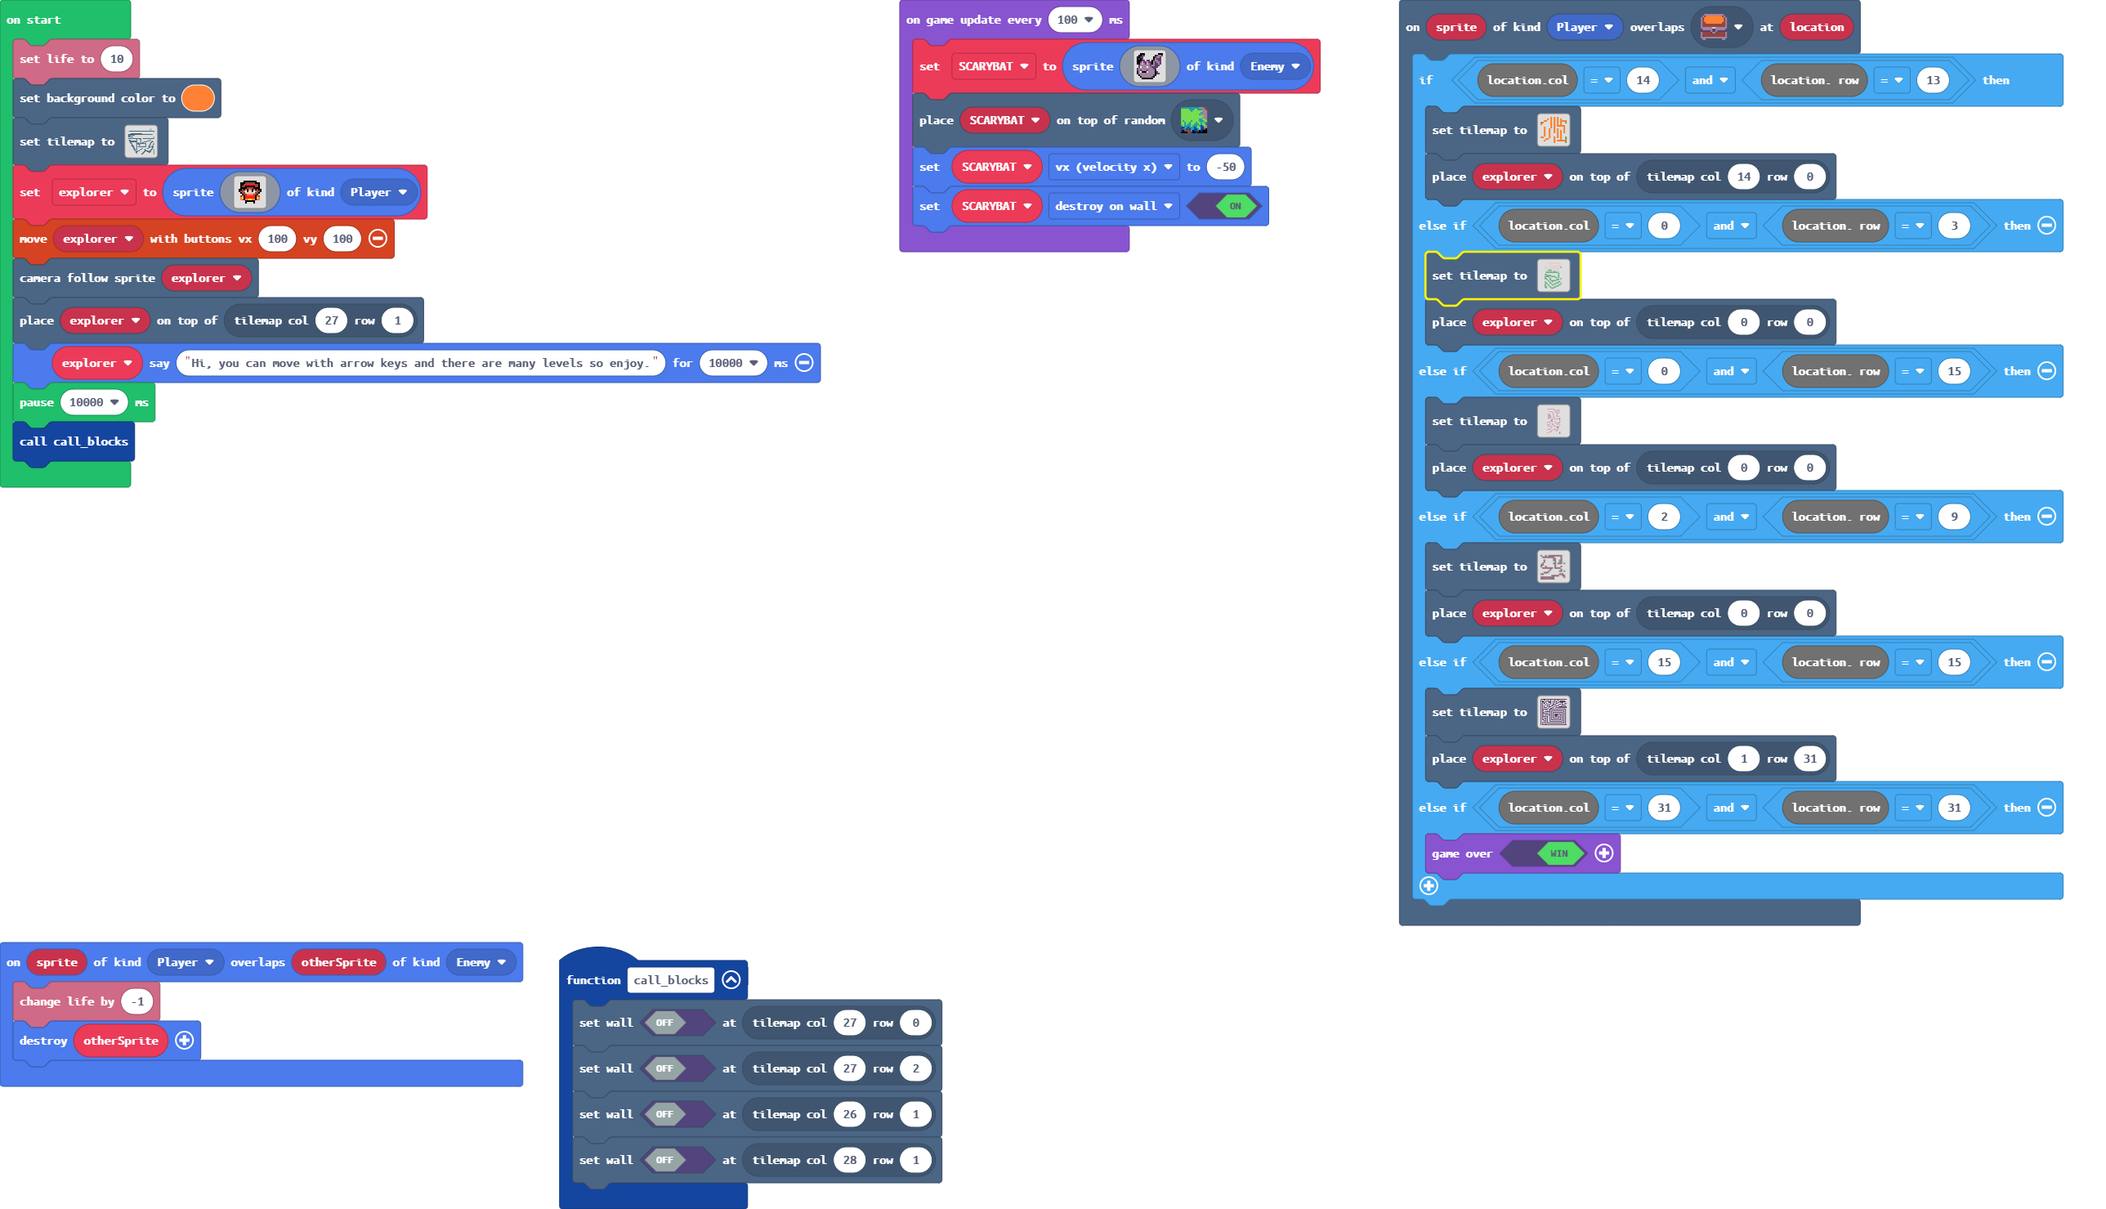
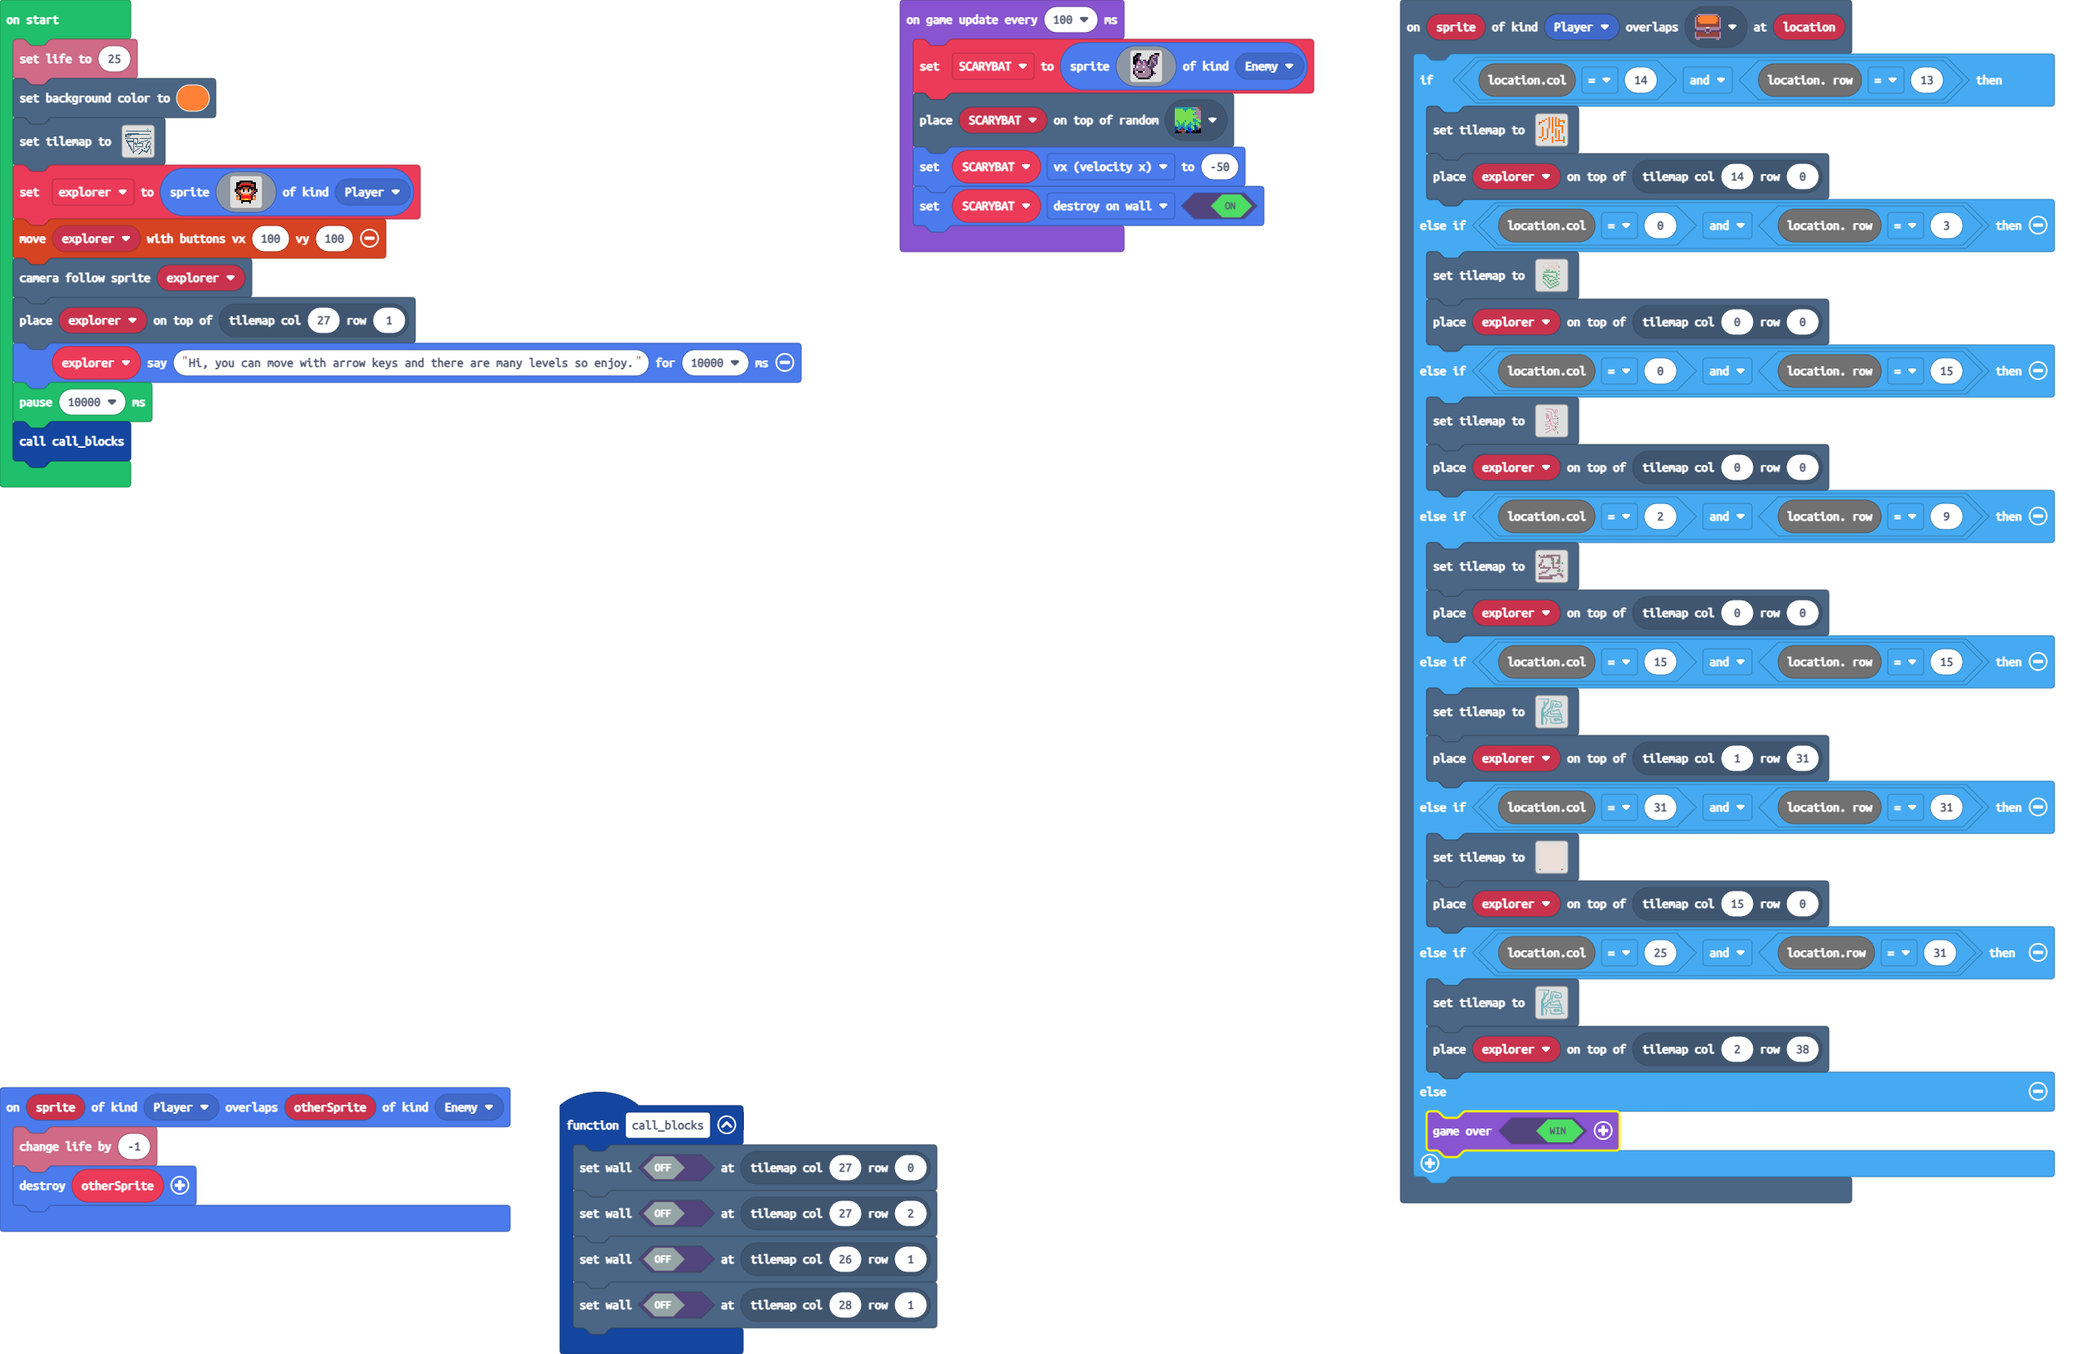
Update pxt.json, main.blocks, main.ts, tilemap.g.jres, tilemap.g.ts

diff --git a/tilemap.g.ts b/tilemap.g.ts
@@ -24,25 +24,6 @@ namespace myTiles {
 . . . . . . . . . . . . . . . . 
 . . . . . . . . . . . . . . . . 
 `, [myTiles.transparency16], TileScale.Sixteen);
-            case "level8":
-            case "level8":return tiles.createTilemap(hex`1000100000000000000000000000000000000000000000000000000000000000000000000000000000000000000000000000000000000000000000000000000000000000000000000000000000000000000000000000000000000000000000000000000000000000000000000000000000000000000000000000000000000000000000000000000000000000000000000000000000000000000000000000000000000000000000000000000000000000000000000000000000000000000000000000000000000000000000000000000000000000000000000000000000000000000000000000000000000000000000000000000000000000000000000000000000000000`, img`
-. . . . . . . . . . . . . . . . 
-. . . . . . . . . . . . . . . . 
-. . . . . . . . . . . . . . . . 
-. . . . . . . . . . . . . . . . 
-. . . . . . . . . . . . . . . . 
-. . . . . . . . . . . . . . . . 
-. . . . . . . . . . . . . . . . 
-. . . . . . . . . . . . . . . . 
-. . . . . . . . . . . . . . . . 
-. . . . . . . . . . . . . . . . 
-. . . . . . . . . . . . . . . . 
-. . . . . . . . . . . . . . . . 
-. . . . . . . . . . . . . . . . 
-. . . . . . . . . . . . . . . . 
-. . . . . . . . . . . . . . . . 
-. . . . . . . . . . . . . . . . 
-`, [myTiles.transparency16], TileScale.Sixteen);
             case "level5":
             case "level5":return tiles.createTilemap(hex`1000190000000101010101010101010101010100000000000000000000000000000001000000000000010000000000000000010001000000000101010101010101010100010000000000000000000000000100040101010101010101010101010001000000000000000000000000000100010000000000020202020000000001000100000000000000000000000200000001000400020202020202020202020202010000000000000000000000000000000200000202000000000000000000000002000400000202020200000000000000020000020202020000020202020000000200000200000002000000000002020002000003020000000200000000000000000102000002000002000000000002020200000000000200000202020202000000000002000000020000020000000000020200000200000002000000000002020000000000020000000200000202000000000200000002000000020200000000020200000000000200000000000002020000000000000000020000000202000000000000000000000002020200000000000000`, img`
 ..22222222222222
@@ -71,41 +52,6 @@ namespace myTiles {
 .....2...22.....
 ......222.......
 `, [myTiles.transparency16,sprites.castle.tilePath5,sprites.builtin.forestTiles23,sprites.dungeon.chestClosed,sprites.builtin.forestTiles20], TileScale.Sixteen);
-            case "level7":
-            case "level7":return tiles.createTilemap(hex`2000200003010101040101010101010101010101010101010101010101010101010101010100000001000000000000000100000000010000000100000000000000000000010004000001000101010100010000010001000100010001010101010101000001000404000001000000010101000001000100010000000101010101010101000100010004000100000101010100000100010001000101000101010100000000010001000400000100000000010000010000000101000000000001000001010101000100000100000100010001000001010101000000000101000100000000000100010000000100010001000000010100000000000101000000010101010100010001000100000001000100000101000001010101000000000100000000000001000100010000000100010101000000010000000000010101010101010101010100010001010101000001000000010100000101010101010101010101010101010001000000000000010000010100000000000000000000000000000000000001000101010101010100000101010101010101010101010101010101010101000100010000000100000001010000000000000000000000000000000000000100010001010000000001000001000101010101010101010101010101010100010001000100000101010101010100010000000000000000000000000000010001000100010100000000000000010001000101010101010101010101010001000100010001010101010101010001000100010000000000000000000001000100010001000100000000000000000100010001000101010101010101000100010001000100010100010101010101010001000100010101010000000100010001000100010001000000000000000001000100010001010101000100010001000100010001000101010101010100000100010001000101010100010001000100010001000100010000000000010000010001000100000000000001000100010001000100010001000101010001000001000100010101010101010100010001000100010001000100000001000100000100010000000000000000000001000100010001000100010101000100010000010001010101010101010101010100010001000100010000000100010001000001000000000000000000000000000001000100010001000000010001000100000101010101010101010101010101010100010001000100010001000100010000000000000000000000000000000000000001000100010001000100010001010101010101010101010101010101010101010100010001000100000001000000000000000000000000000000000000000000000001000100010101010101010101010101010101010101010101010101010101010102`, img`
-22222222222222222222222222222222
-2...2.......2....2...2..........
-2.2..2.2222.2..2.2.2.2.2222222..
-2.22..2...222..2.2.2...22222222.
-2.2.2.2..2222..2.2.2.22.2222....
-2.2.2..2....2..2...22.....2..222
-2.2..2..2.2.2..2222....22.2.....
-2.2...2.2.2...22.....22...22222.
-2.2.2...2.2..22..2222....2......
-2.2.2...2.222...2.....2222222222
-2.2.2222..2...22..22222222222222
-2.2......2..22..................
-2.2222222..22222222222222222222.
-2.2...2...22..................2.
-2.22....2..2.2222222222222222.2.
-2.2..2222222.2..............2.2.
-2.22.......2.2.222222222222.2.2.
-2.22222222.2.2.2..........2.2.2.
-2.2........2.2.2.22222222.2.2.2.
-2.22.2222222.2.2.2222...2.2.2.2.
-2.2........2.2.2.2222.2.2.2.2.2.
-2.2222222..2.2.2.2222.2.2.2.2.2.
-2.2.....2..2.2.2......2.2.2.2.2.
-2.2.222.2..2.2.22222222.2.2.2.2.
-2.2...2.2..2.2..........2.2.2.2.
-2.222.2.2..2.222222222222.2.2.2.
-2...2.2.2..2..............2.2.2.
-2...2.2.2..2222222222222222.2.2.
-2.2.2.2.2...................2.2.
-2.2.2.2.222222222222222222222.2.
-2.2...2.......................2.
-2.22222222222222222222222222222.
-`, [myTiles.transparency16,sprites.builtin.oceanSand14,sprites.dungeon.chestClosed,sprites.builtin.forestTiles20,sprites.builtin.oceanDepths9], TileScale.Sixteen);
             case "level1":
             case "level1":return tiles.createTilemap(hex`2000200000000000000000000000000000000000000000000000000000000005000000000000000000000000000000000000000000000000000000000000050005000000000000000000000000000000000000000000000000000000000000050000000000030303030303030303030303030303030303030303030303030303030303030000000000000000000000000000000000000000000000000000000000000007000000000000000000000000000000000000000000000000000000000000000000000002020202020202020202020202020000000000000000000000000000000202020202020202020202020202020202020202020202020202020202020000020202020202020200000000000000000000000000000000000000000000000002020000000000000000000000000000000000000000000000000000000000000202020202020000000000000000000000000000000000000000000000000007000000000000000000000000000000000000000000000000000000000000000702020202020202020202020202020202000002020202020202020202020202010000000000000000000003000000040300000000000000000000000000000000000303000000000000000300000000030000000000000000000003030000000000030303030303030303030000000003000000000000000303030000000300000000030303030303030303000000000300000003030303000000000003030300000003030000000000000300030000030003030000000000000000030300000600000003030000000000030203030203030303030303000000000003000000070000000003000000000003000303000000000000000300000000030300000303000000000303000000000300000303000000000000030000000003000000000000000000030303000000030000000000000000000003000000030300000303000000000000030300000003000303030303030303030300000003030003030300000000000000030300000300000000000000000000000000000303000003030000000000000003030000030000000000000300000000000303000000000300000000000000000003030003000000000303000000030000000000000003030007000000000000000303000300000003000000000003030000000000030300000700000000000000000300030003030000000000000303030303000303000000070000000000000000000303030000000000000003030000030303030300000007000000000000000000030300000000000000030300000000000303000000000700000000000000000000030000000000000303000000000000000000000000070000000000000000000000000000000003030000000000000000000000000007`, img`
 ...........................2....
@@ -215,6 +161,108 @@ namespace myTiles {
 2 2 . 2 2 2 2 2 2 . . . . . . . 
 2 2 . . . . . . . . . . . . . . 
 `, [myTiles.transparency16,sprites.builtin.forestTiles26,sprites.dungeon.chestClosed,sprites.builtin.forestTiles29,sprites.builtin.forestTiles20], TileScale.Sixteen);
+            case "level9":
+            case "level9":return tiles.createTilemap(hex`1000100000000000000000000000000000000000000000000000000000000000000000000000000000000000000000000000000000000000000000000000000000000000000000000000000000000000000000000000000000000000000000000000000000000000000000000000000000000000000000000000000000000000000000000000000000000000000000000000000000000000000000000000000000000000000000000000000000000000000000000000000000000000000000000000000000000000000000000000000000000000000000000000000000000000000000000000000000000000000000000000000000000000000000000000000000000000`, img`
+. . . . . . . . . . . . . . . . 
+. . . . . . . . . . . . . . . . 
+. . . . . . . . . . . . . . . . 
+. . . . . . . . . . . . . . . . 
+. . . . . . . . . . . . . . . . 
+. . . . . . . . . . . . . . . . 
+. . . . . . . . . . . . . . . . 
+. . . . . . . . . . . . . . . . 
+. . . . . . . . . . . . . . . . 
+. . . . . . . . . . . . . . . . 
+. . . . . . . . . . . . . . . . 
+. . . . . . . . . . . . . . . . 
+. . . . . . . . . . . . . . . . 
+. . . . . . . . . . . . . . . . 
+. . . . . . . . . . . . . . . . 
+. . . . . . . . . . . . . . . . 
+`, [myTiles.transparency16], TileScale.Sixteen);
+            case "level8":
+            case "level8":return tiles.createTilemap(hex`10001200010101010101010101010101010101000101010101010101010101010101010101010101010101010101010101010101010101010101010101010101010101010101010101010101010101010101010101010101010101010101010101010101010101010101010101010101010101010101010101010101010101010101010101010101010101010101010101010101010101010101010101010101010101010101010101010101010101010101010101010101010101010101010101010101010101010101010101010101010101010101010101010101010101010101010101010101010101010101010101010101010101010101010101010101010101010101010101010101010101010101010103010101010101010101010101010102`, img`
+. . . . . . . . . . . . . . . . 
+. 2 . . 2 2 . 2 2 2 2 2 2 2 . 2 
+. 2 . . . . . . . . . . . 2 . 2 
+. . . . . . . . . . . . . 2 . . 
+. 2 . . 2 2 . 2 . . . . . . . . 
+. . . . . 2 . 2 . . 2 2 2 2 2 . 
+. . . . . 2 . 2 . . 2 . . . . . 
+. 2 . 2 . . . 2 . . . . . 2 2 . 
+. 2 . 2 2 2 2 2 . . . . . 2 2 . 
+. 2 . . . . . . . . 2 . . 2 2 . 
+. 2 . 2 2 2 2 2 2 2 2 . . 2 2 . 
+. 2 . . . . . . . . 2 . . 2 2 . 
+. 2 . . . . . . . . 2 . . 2 2 . 
+. 2 2 2 2 2 2 . . . 2 . . . 2 . 
+. . 2 . . . . . 2 2 2 2 2 . 2 . 
+. . 2 . . . . . . . . . . . 2 . 
+. . 2 . . . . . . . . . . . 2 . 
+2 . 2 2 2 2 2 2 2 2 2 2 2 2 2 . 
+`, [myTiles.transparency16,sprites.builtin.brick,sprites.dungeon.chestClosed,sprites.builtin.forestTiles20], TileScale.Sixteen);
+            case "level10":
+            case "level10":return tiles.createTilemap(hex`1000100000000000000000000000000000000000000000000000000000000000000000000000000000000000000000000000000000000000000000000000000000000000000000000000000000000000000000000000000000000000000000000000000000000000000000000000000000000000000000000000000000000000000000000000000000000000000000000000000000000000000000000000000000000000000000000000000000000000000000000000000000000000000000000000000000000000000000000000000000000000000000000000000000000000000000000000000000000000000000000000000000000000000000000000000000000000`, img`
+. . . . . . . . . . . . . . . . 
+. . . . . . . . . . . . . . . . 
+. . . . . . . . . . . . . . . . 
+. . . . . . . . . . . . . . . . 
+. . . . . . . . . . . . . . . . 
+. . . . . . . . . . . . . . . . 
+. . . . . . . . . . . . . . . . 
+. . . . . . . . . . . . . . . . 
+. . . . . . . . . . . . . . . . 
+. . . . . . . . . . . . . . . . 
+. . . . . . . . . . . . . . . . 
+. . . . . . . . . . . . . . . . 
+. . . . . . . . . . . . . . . . 
+. . . . . . . . . . . . . . . . 
+. . . . . . . . . . . . . . . . 
+. . . . . . . . . . . . . . . . 
+`, [myTiles.transparency16], TileScale.Sixteen);
+            case "level7":
+            case "level7":return tiles.createTilemap(hex`2800280002020202020202020202020202020202000000000000000000000000000000000000000000000000000000000000000000000000000002020000000000000000000000000000000000000000000000000000000000000000000000000000020200000000000000000000000000000000000000000000000000000000000000000200000000000200000000020202020202020200000000000000000000000000000000000000000002000000000002000000000200000000000002020202020200000000000000000000000000000000020000000000020000000002000000000000000000000000020200000000000000000000000000000202000000020200000000020000000000000000000000000002000000000000000000000000000002000002020200000000020000000200000000000000000000000200000000000000000000000000020000020000000000000200000202000002020202000000000002000000000000000000000000000202000200000000000002000002000000020000000202000000020000000000000000000000000002000002000000000000020000020000020000000000000000000202000000000000000000000000020002000000000000000200000200000202000000000000000002000000000000000000000000020202000000000000000002000202000000020202020202020202020000000000000000000000000202020000000000000002020002000000000000000000000000000000000000000000000000020202020200000000000000020000020000000000000000000000000000000000000000000000000202020000000000000000020200000200000000000000000000000000000000000000000000000002020200000000000002020200000002000000000000000002020000000000000000000000000002020200000000000002020000000000020000000000020202000202000000000000000000000000020202000000000000020000000002000002000202020000000000020000000000000000000000000202020000000000020200000202020000000202000000000000000200000000000000000000000002020200000002020000000202000200000000000000000000000000020000000000000000000000020202020202020000000202000002000000000000000000000000000200000000000000000000000202020200000000000202000000020000000000000000000000000002020000000000000000000002020202000000000202000000000202020202020202020202020200000200000000000000000000020202020000000202000000000000000000000000000000000002020202020000000000000000000202020202020202000000000000000000000000000000000000000000000200000000000000000002020200020000020202000000000000000000000000000000000000000002000000000000000000020202000200000000000202020202020202020202020202020202020202020000000000000000000202020000020200000000000000000000000000000000000000000000000202000000000000000002020200000002000000000000000000000000000000000000000000000000020000000000000000020202000000000200000000000200000000000002020202020202020000000200000000000000000202020000000002020000000002000000000002020100000000000200000002000000000000000002020200000000000200000000000200000000020200000202020202020200020000000000000000020202000000000002000000000002000000000002020202000000000000020200000000000000000202020000000000020000000000020000000000000000000000000000000002000000000000000002020200000000020000000000000200000000000000000000000000000000020000000000000000020202000000000200000000000002020200000000000000000000000000020202020202000000000202020000000002000000000000000002020202020202020202020202020000000000000000000002020200000000020000000000000000000000000000000000000000000000000000000000000000020202000000000000000000000000000000000000000000000000000000000000000000`, img`
+2222222222222...........................
+...............2........................
+..............22........................
+........2.....2....22222222.............
+........2.....2....2......222222........
+........2.....2....2............22......
+........22...22....2.............2......
+........2..222....2...2...........2.....
+........2..2......2..22..2222.....2.....
+........22.2......2..2...2...22...2.....
+........2..2......2..2..2.........22....
+........2.2.......2..2..22........2.....
+.......222........2.22...2222222222.....
+.......222.......22.2...................
+.....22222.......2..2...................
+.....222........22..2...................
+.....222......222...2........22.........
+....222......22.....2.....222.22........
+....222......2....2..2.222.....2........
+....222.....22..222...22.......2........
+....222...22...22.2.............2.......
+....2222222...22..2.............2.......
+....2222.....22...2.............22......
+....2222....22....2222222222222..2......
+....2222....2.................22222.....
+....2222222.......................2.....
+....222.2..222....................2.....
+....222.2.....2222.2222222222222222.....
+....222..22......2................22....
+....222...2......2.................2....
+....222....2.....2......22222222...2....
+....222....22....2.............2...2....
+....222.....2.....2....22..2222222.2....
+....222.....2.....2.....2222......22....
+....222.....2.....2................2....
+....222....2......2................2....
+....222....2......222.............222222
+....222....2........22222222222222......
+....222....2............................
+....222.................................
+`, [myTiles.transparency16,sprites.dungeon.chestClosed,sprites.castle.tileDarkGrass2], TileScale.Sixteen);
         }
         return null;
     })

diff --git a/main.ts b/main.ts
@@ -21,6 +21,12 @@ scene.onOverlapTile(SpriteKind.Player, sprites.dungeon.chestClosed, function (sp
         tiles.setTilemap(tilemap`level7`)
         tiles.placeOnTile(explorer, tiles.getTileLocation(1, 31))
     } else if (location.col == 31 && location. row == 31) {
+        tiles.setTilemap(tilemap`level8`)
+        tiles.placeOnTile(explorer, tiles.getTileLocation(15, 0))
+    } else if (location.col == 25 && location.row == 31) {
+        tiles.setTilemap(tilemap`level7`)
+        tiles.placeOnTile(explorer, tiles.getTileLocation(2, 38))
+    } else {
         game.over(true)
     }
 })
@@ -30,7 +36,7 @@ sprites.onOverlap(SpriteKind.Player, SpriteKind.Enemy, function (sprite, otherSp
 })
 let SCARYBAT: Sprite = null
 let explorer: Sprite = null
-info.setLife(10)
+info.setLife(25)
 scene.setBackgroundColor(4)
 tiles.setTilemap(tilemap`level1`)
 explorer = sprites.create(img`
